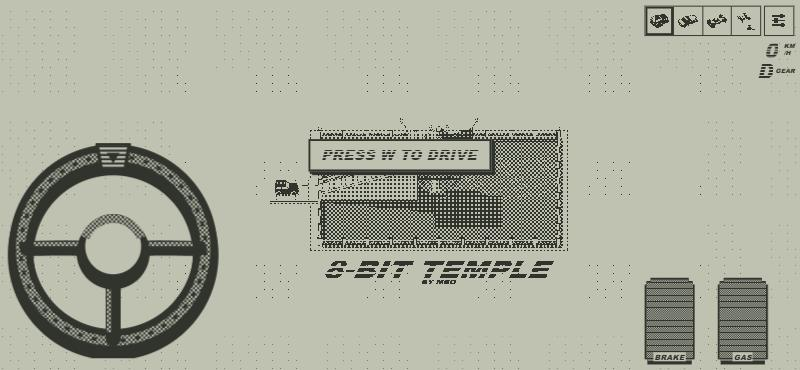
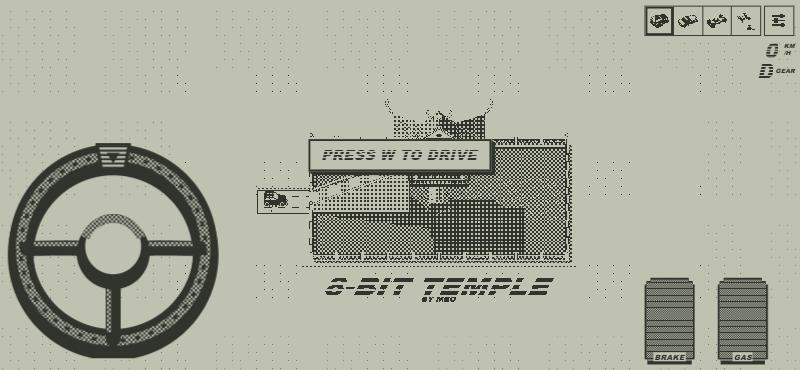
Enlarge the temple and shorten its stairs
The shrine is 1.3x larger inside the pond and the map draws at 1.45x
(was 1.35x). The stairs climb in ten broad steps instead of 33. In
portrait, the painted title moves east of the pond so it clears the top
bar. README pictures and notes are refreshed.

Changed region(s): [[0.3125, 0.2973, 0.7188, 0.8324]]

diff --git a/dist/index.html b/dist/index.html
@@ -848,12 +848,12 @@ function fitShape(A,zones,grid,id,hw){
 // round the pond centre (x, y). TEMPLE_GEO is the one source for the art, the colliders and the ground paint.
 const TEMPLE_GEO={
  pond:{u:220,v:150,rim:6,water:-5,coping:2},fence:{z:12,post:16,step:44,gap:26},
- stairs:{v:16,wall:22,u1:-40,n:33},walk:{v:30,len:90},apron:14,
- pillar:{r:13,z:62},floor:{u:40,z:66},room:{u:28,z:92},column:{u:38,r:2.5},
- roof:{u:62,v:46,z:100,curl:16,tu:20,tv:16,tz:126},gable:{u:24,v:16,z:146,top:184}
+ stairs:{v:16,wall:22,u1:-52,n:10},walk:{v:30,len:90},apron:14,
+ pillar:{r:17,z:80},floor:{u:52,z:86},room:{u:36,z:120},column:{u:49,r:3.2},
+ roof:{u:80,v:60,z:130,curl:21,tu:26,tv:21,tz:164},gable:{u:31,v:21,z:190,top:240}
 };
 // Scale for an arena (the fixed course is 1350 x 675 screen px) and the pond's half-size in world units at that scale.
-const TEMPLE_SCALE=1.35,TEMPLE_TITLE='8-BIT TEMPLE';
+const TEMPLE_SCALE=1.45,TEMPLE_TITLE='8-BIT TEMPLE';
 const templeOuter=T=>{const P=TEMPLE_GEO.pond,s=T.s;return {u:(P.u+P.rim)*s,v:(P.v+P.rim)*s};};
 // The grounds' plan rect (world units): pond, fence, and the walk to the west.
 function templeRect(T){const o=templeOuter(T);return {l:T.x-o.u-TEMPLE_GEO.walk.len*T.s,r:T.x+o.u,t:T.y-o.v,b:T.y+o.v};}
@@ -869,10 +869,11 @@ function templeParts(x,y,s){
  return {x:r2(x),y:r2(y),s,blocks:[box(-U,-V,U,V,G.fence.post),box(-U,-st.wall,st.u1,st.wall,G.floor.z+16),box(-G.floor.u-2,-G.floor.u-2,G.floor.u+2,G.floor.u+2,1e3)]};
 }
 // The title's paint rect (screen px): centred under the pond. A portrait phone draws the title turned upright about the
-// rect's centre, so there the rect sits west of the walk, centred down the arena, with its long side within the narrow view.
+// rect's centre, so there the rect sits east of the pond (above the phone's controls), centred down the arena, with its long
+// side within the narrow view.
 const TEMPLE_TITLE_GAP=18,TEMPLE_TITLE_H=64;
 function templeTitleRect(T,A){const s=T.s,o=templeOuter(T),h=Math.round(TEMPLE_TITLE_H*s);
- if(A&&A.mobile&&A.uiH>A.uiW){const cx=Math.round(T.x-o.u-TEMPLE_GEO.walk.len*s-60*s),cy=Math.round(A.H/2),w=Math.min(2*cx-8,A.H-80,340);return {l:cx-Math.round(w/2),t:cy-Math.round(h/2),r:cx+Math.round(w/2),b:cy+Math.round(h/2)};}
+ if(A&&A.mobile&&A.uiH>A.uiW){const cx=Math.round(Math.min(T.x+o.u+70*s,A.W-h/2-90)),cy=Math.round(A.H/2),w=Math.min(2*(A.W-cx)-8,A.H-80,340);return {l:cx-Math.round(w/2),t:cy-Math.round(h/2),r:cx+Math.round(w/2),b:cy+Math.round(h/2)};}
  const w=Math.min(A.W-40,460*s),t=Math.ceil((T.y+o.v)*K+TEMPLE_TITLE_GAP*s);return {l:Math.round(T.x-w/2),t,r:Math.round(T.x+w/2),b:Math.min(A.H-8,t+h)};}
 // The map: the temple centred in the arena (from the ornament's top to the title's foot); the car starts on the west walk,
 // facing the stairs.
@@ -2575,7 +2576,7 @@ function pitDrawables(w){const g=pitStopGeometry(w.arena,w.layout);if(!g)return 
 // with ink channels, gilt and plaster paper with ink outlines; faces toward the light (up-left) a step lighter.
 const TEMPLE_LAYERS=['pond','stairs','pavilion','front','shadow'];
 function templeArt(T){
- const G=TEMPLE_GEO,s=T.s,size=Math.ceil(500*s)+40,ax=Math.ceil(240*s)+20,ay=Math.ceil(140*s)+20,L={};
+ const G=TEMPLE_GEO,s=T.s,size=Math.ceil(520*s)+40,ax=Math.ceil(240*s)+20,ay=Math.ceil(200*s)+20,L={};
  for(const k of TEMPLE_LAYERS)L[k]=raster(size,ax,ay);
  const {pond,pavilion:pv,stairs:sr,front,shadow:sh}=L;
  const P=(u,v,z=0)=>[ax+u*s,ay+K*v*s-Z*z*s],S=(u,v,z=0)=>{const p=P(u,v,0);return [p[0]+LIGHT.x*z*s,p[1]+LIGHT.y*z*s];};
@@ -2630,12 +2631,12 @@ function templeArt(T){
  const strut=(r,a,b)=>{const pts=[];for(let i=0;i<=6;i++){const t=i/6,e=Math.sin(t*Math.PI/2);pts.push([a[0]+(b[0]-a[0])*e,a[1]+(b[1]-a[1])*e,a[2]+(b[2]-a[2])*t]);}
   for(let i=0;i<6;i++){const p=P(...pts[i]),q=P(...pts[i+1]);r.line(p,q,0);r.line([p[0]+1,p[1]],[q[0]+1,q[1]],.25);}};
  const reach=fl.u-6;
- for(const [du,dv] of [[-1,-1],[1,-1],[0,-1]])strut(pv,[du*pl.r*.7,dv*pl.r*.7,12],[du*reach,dv*reach,pl.z]);
+ for(const [du,dv] of [[-1,-1],[1,-1],[0,-1]])strut(pv,[du*pl.r*.7,dv*pl.r*.7,pl.z*.2],[du*reach,dv*reach,pl.z]);
  for(let k=0;k<3;k++){const a=k*TAU/3+.3;line(pv,[Math.cos(a)*pl.r*1.6,Math.sin(a)*pl.r*1.6,Pd.water],[Math.cos(a+1.4)*pl.r*1.6,Math.sin(a+1.4)*pl.r*1.6,Pd.water],1);}
  const col=(u0,u1,shade)=>poly(pv,[[u0,0,Pd.water],[u1,0,Pd.water],[u1,0,pl.z],[u0,0,pl.z]],shade,false);
  col(-pl.r,pl.r,.75);col(-pl.r,-pl.r*.35,1);col(pl.r*.4,pl.r,.5);
  for(const u of [-pl.r,pl.r])line(pv,[u,0,Pd.water],[u,0,pl.z]);for(const z of [Pd.water+1,pl.z-4])line(pv,[-pl.r,0,z],[pl.r,0,z],.5);
- for(const [du,dv] of [[-1,0],[1,0],[-1,1],[1,1],[0,1]])strut(pv,[du*pl.r*.7,dv*pl.r*.7,12],[du*reach,dv*reach,pl.z]);
+ for(const [du,dv] of [[-1,0],[1,0],[-1,1],[1,1],[0,1]])strut(pv,[du*pl.r*.7,dv*pl.r*.7,pl.z*.2],[du*reach,dv*reach,pl.z]);
 
  // The shrine: floor, back columns, the lattice room, front columns, and the veranda railing (open where the stairs arrive).
  flat(pv,-fl.u,fl.u,-fl.u,fl.u,fl.z,.75);face(pv,-fl.u,fl.u,fl.u,pl.z,fl.z,.25);
@@ -2661,7 +2662,7 @@ function templeArt(T){
   for(let i=0;i<M;i++)line(pv,at(f,-1+2*i/M,0),at(f,-1+2*(i+1)/M,0));};
  const rib=(f,a)=>{for(let j=0;j<N;j++){const p=P(...at(f,a,j/N)),q=P(...at(f,a,(j+1)/N));pv.line(p,q,1);pv.line([p[0]-Math.sign(a),p[1]],[q[0]-Math.sign(a),q[1]],0);}};
  slope(slopes.back,.25,null);
- for(const k of [-1,1])horn(pv,[k*R.u,-R.v,curl(1)],k,-.7,1.3);
+ for(const k of [-1,1])horn(pv,[k*R.u,-R.v,curl(1)],k,-.7,1.7);
  slope(slopes.west,.75,.5);slope(slopes.east,.25,.5);
 
  // Gable roof on top: its two slopes, the plastered front gable with a dark medallion, and paper bargeboards.
@@ -2672,14 +2673,14 @@ function templeArt(T){
  slope(slopes.front,.5,0);
  for(const a of [-1,1])rib(slopes.front,a);
  for(let i=0;i<M;i++){const a0=-1+2*i/M,a1=-1+2*(i+1)/M,p=at(slopes.front,a0,0),q=at(slopes.front,a1,0);poly(pv,[p,q,[q[0],q[1],q[2]-3],[p[0],p[1],p[2]-3]],Math.abs(a0+a1)>1.7?1:0);}
- for(const k of [-1,1])horn(pv,[k*R.u,R.v,curl(1)],k,.7,1.5);
+ for(const k of [-1,1])horn(pv,[k*R.u,R.v,curl(1)],k,.7,1.95);
  poly(pv,[[-R.tu,Gb.v,R.tz],[R.tu,Gb.v,R.tz],[0,Gb.v,Gb.z-3]],1);
  poly(pv,[[-5,Gb.v+.1,R.tz+8],[0,Gb.v+.1,R.tz+3],[5,Gb.v+.1,R.tz+8],[0,Gb.v+.1,R.tz+13]],0);line(pv,[-R.tu+3,Gb.v+.1,R.tz+1.5],[R.tu-3,Gb.v+.1,R.tz+1.5]);
- for(const k of [-1,1]){poly(pv,[[k*(gw+1),Gb.v+.3,g0-1],[0,Gb.v+.3,Gb.z+1],[0,Gb.v+.3,Gb.z+4],[k*(gw+1),Gb.v+.3,g0+2]],1);horn(pv,[k*(gw+1),Gb.v+.4,g0-1],k,0,.7);}
+ for(const k of [-1,1]){poly(pv,[[k*(gw+1),Gb.v+.3,g0-1],[0,Gb.v+.3,Gb.z+1],[0,Gb.v+.3,Gb.z+4],[k*(gw+1),Gb.v+.3,g0+2]],1);horn(pv,[k*(gw+1),Gb.v+.4,g0-1],k,0,.9);}
  // Ridge, its end knobs, and the gilt crown: a flaming pearl between two dragons.
  for(const d of [0,1])line(pv,[0,-Gb.v,Gb.z+d],[0,Gb.v,Gb.z+d],0);
  for(const v of [-Gb.v,Gb.v])ball(pv,0,v,Gb.z+1,2.2);
- for(const k of [-1,1])horn(pv,[k*7,0,Gb.z+1],k,0,1.05);
+ for(const k of [-1,1])horn(pv,[k*9,0,Gb.z+1],k,0,1.35);
  ball(pv,0,0,Gb.z+3,5);{const c=P(0,0,Gb.z+8);pv.pixel(c[0],c[1],0);pv.pixel(c[0]+1,c[1],0);}
 
  // Stairs climbing east from the gap in the west fence to the veranda, seen side-on: the far parapet, the treads (alternate

diff --git a/README.md b/README.md
@@ -73,7 +73,7 @@ Ranked time is `elapsedSeconds + 0.02 × (100 − quality)²`; lower wins. Perso
 
 ## The Temple map
 
-**Temple** is a free-drive map, like the parking lot: no road, race gate, cones or pit garage, and no lap timer. It has only the One Pillar Pagoda (Chùa Một Cột), shown with its own painted title, **8-BIT TEMPLE**. The shrine is shaped like a lotus rising from a square pond. It stands on a single stone pillar, which carries the floor on curved wooden struts. It has a lattice room, a veranda railing, a curved tiled roof with upturned corners, and a small gable on top crowned by a gilt pearl between two dragons. A stone-coped pond with a balustrade fence surrounds it. A flight of stairs climbs from a gate in the west fence to the veranda, and a paved walk leads to that gate.
+**Temple** is a free-drive map, like the parking lot: no road, race gate, cones or pit garage, and no lap timer. It has only the One Pillar Pagoda (Chùa Một Cột), shown with its own painted title, **8-BIT TEMPLE**. The shrine is shaped like a lotus rising from a square pond. It stands on a single stone pillar, which carries the floor on curved wooden struts. It has a lattice room, a veranda railing, a curved tiled roof with upturned corners, and a small gable on top crowned by a gilt pearl between two dragons. A stone-coped pond with a balustrade fence surrounds it. A short flight of ten broad stairs climbs from a gate in the west fence to the veranda, and a paved walk leads to that gate.
 
 ![The Temple map, rendered from the game's drawing code](docs/images/temple-map.png)
 
@@ -83,8 +83,8 @@ Ranked time is `elapsedSeconds + 0.02 × (100 − quality)²`; lower wins. Perso
 - The pond and its fence are solid for cars, from every side. The Drone can climb over the fence and fly over the water. It can't fly through the stairs or the shrine, which is taller than it can fly.
 - Light falls from the upper left, as everywhere in the game. The shrine, pillar, stairs and fence cast darker shadows on the water. Cars behind the pond or the shrine are hidden by them.
 - The stairs come in from the side, because this camera looks down steeply: stairs from the front would hide the pillar. For the same reason, the roof overhangs less at the front than at the sides.
-- Sizes are in `TEMPLE_GEO`, and the map is built by `buildTemple`. The temple is drawn at 1.35× on the fixed 1350 × 675 world, centred together with its title.
-- On a phone held upright, the whole map is drawn turned 90°. The title is turned back upright and moved west of the walk to fit; the buildings stay turned, like the pit garage on the road courses.
+- Sizes are in `TEMPLE_GEO`, and the map is built by `buildTemple`. The temple is drawn at 1.45× on the fixed 1350 × 675 world, centred together with its title.
+- On a phone held upright, the whole map is drawn turned 90°. The title is turned back upright and moved east of the pond, above the controls, to fit; the buildings stay turned, like the pit garage on the road courses.
 
 | Desktop (1366×768) | Phone, landscape (844×390) | Phone, portrait (375×812) |
 | --- | --- | --- |
@@ -141,7 +141,7 @@ Use the pit garage (`pitArt`) and the temple (`templeArt`) as templates. Check t
 
 ```sh
 node snapshot.cjs temple docs/images/temple-map.png
-node snapshot.cjs temple docs/images/temple-closeup.png --scale 3 --crop 540,60,830,330
+node snapshot.cjs temple docs/images/temple-closeup.png --scale 3 --crop 520,60,840,360
 node snapshot.cjs eight docs/images/course-eight.png --at 600,300,0
 ```
 

diff --git a/tasks/CURRENT_STATE.md b/tasks/CURRENT_STATE.md
@@ -1,4 +1,4 @@
-Temple map — November 2, 2026: a fifth map, **Temple** (`temple`, between Figure eight and Parking lot), is free drive like parking: no road, gate, cones, pit or race (`raceRoute` is null). It shows the One Pillar Pagoda: a lotus-like shrine on a single stone pillar with curved struts, a lattice room, veranda railing, a curved hip roof with upturned corners and a small front gable with gilt ridge ornaments, in a stone-coped pond with a balustrade fence. Stairs climb from a gate in the west fence (side-on, so they never hide the pillar), and a paved walk leads west from it, where the car starts facing the stairs. The painted title reads **8-BIT TEMPLE** (`TEMPLE_TITLE`, under the pond; west of the walk in portrait). `TEMPLE_GEO` holds every size and `buildTemple` places it at `TEMPLE_SCALE` (1.35×) on the fixed world. Colliders are three oriented boxes (`layout.temple.blocks`, pit-style): the fenced pond (the Drone clears it above the fence), the stairs and the shrine (taller than the Drone flies). Art (`templeArt`) has pond, stairs, pavilion, front and shadow layers, sorted at their own front lines; shadows on the water are drawn into the pond layer in a darker dither. Recovery, the Settings thumbnail (`templeThumb`) and a high Drone behind the shrine (`templeHides`) account for it; the track picker uses three columns. In portrait phones the buildings are drawn turned with the map, like the pit garage. Six checks in `verify-current.cjs` cover it; `snapshot.cjs` and the README art style guide (images in `docs/images`) were added.
+Temple map — November 2, 2026: a fifth map, **Temple** (`temple`, between Figure eight and Parking lot), is free drive like parking: no road, gate, cones, pit or race (`raceRoute` is null). It shows the One Pillar Pagoda: a lotus-like shrine on a single stone pillar with curved struts, a lattice room, veranda railing, a curved hip roof with upturned corners and a small front gable with gilt ridge ornaments, in a stone-coped pond with a balustrade fence. Ten broad stairs climb from a gate in the west fence (side-on, so they never hide the pillar), and a paved walk leads west from it, where the car starts facing the stairs. The painted title reads **8-BIT TEMPLE** (`TEMPLE_TITLE`, under the pond; east of the pond in portrait). `TEMPLE_GEO` holds every size and `buildTemple` places it at `TEMPLE_SCALE` (1.45×) on the fixed world. Colliders are three oriented boxes (`layout.temple.blocks`, pit-style): the fenced pond (the Drone clears it above the fence), the stairs and the shrine (taller than the Drone flies). Art (`templeArt`) has pond, stairs, pavilion, front and shadow layers, sorted at their own front lines; shadows on the water are drawn into the pond layer in a darker dither. Recovery, the Settings thumbnail (`templeThumb`) and a high Drone behind the shrine (`templeHides`) account for it; the track picker uses three columns. In portrait phones the buildings are drawn turned with the map, like the pit garage. Six checks in `verify-current.cjs` cover it; `snapshot.cjs` and the README art style guide (images in `docs/images`) were added.
 
 # Current game state
 
